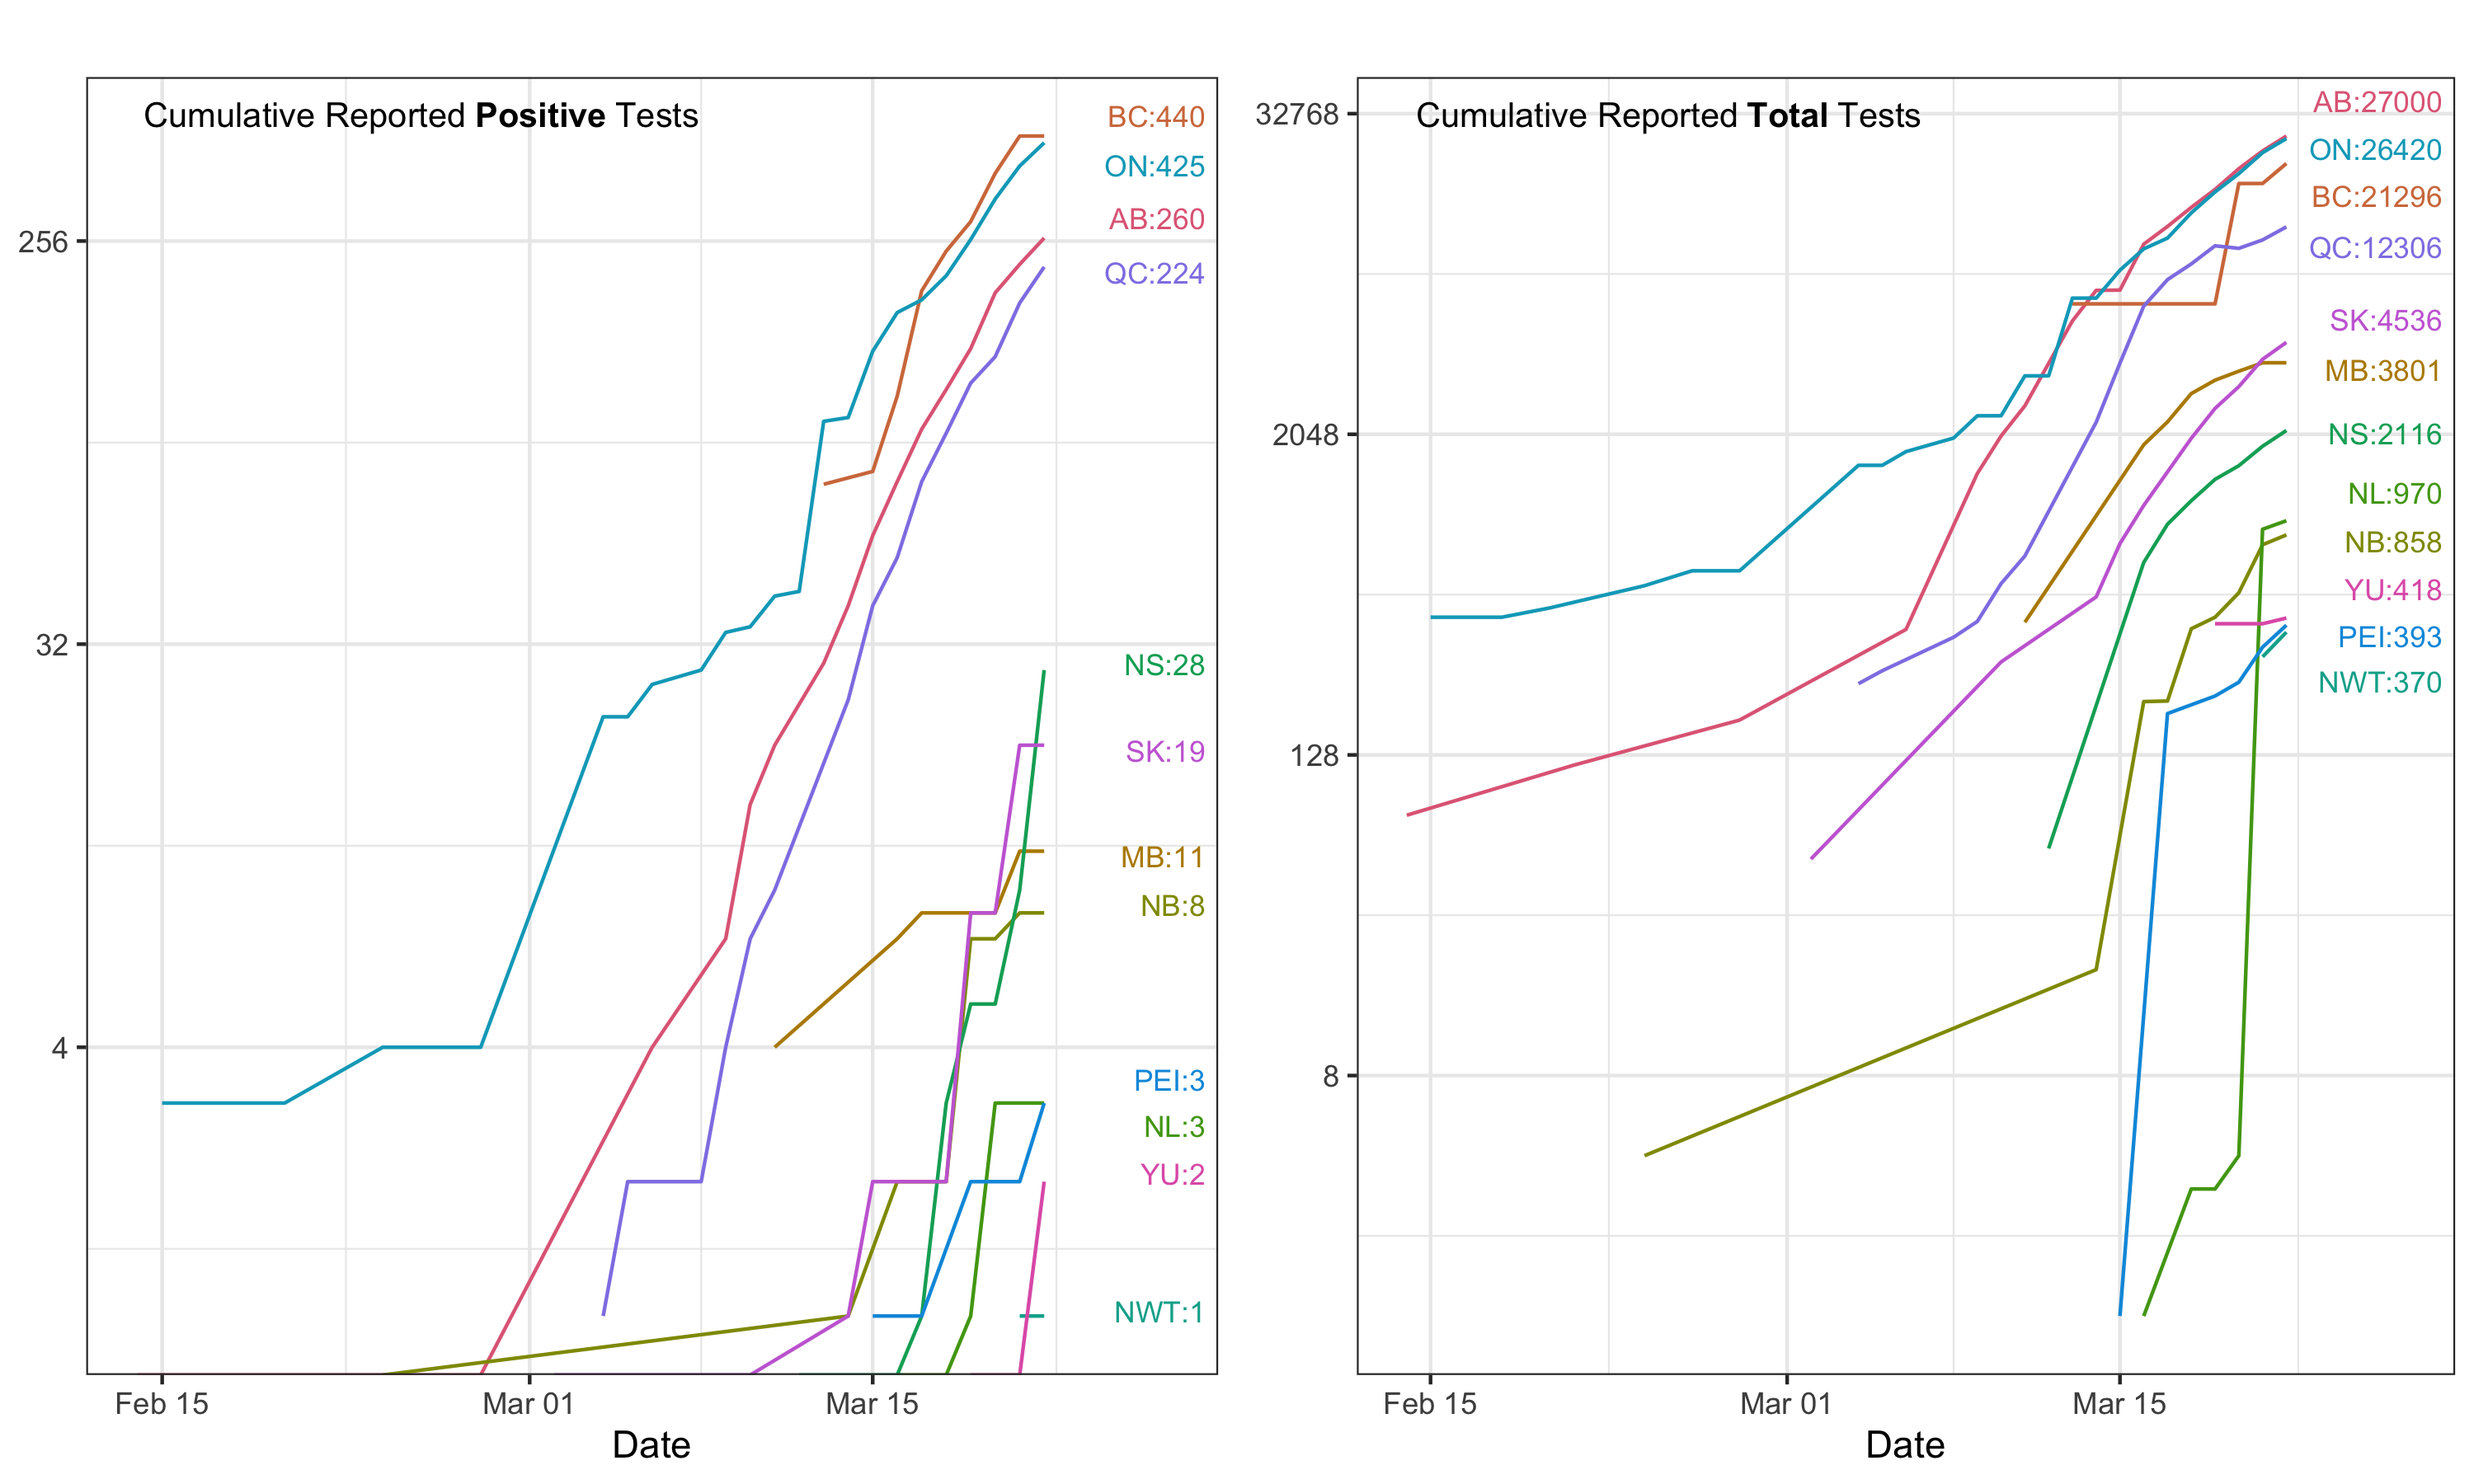
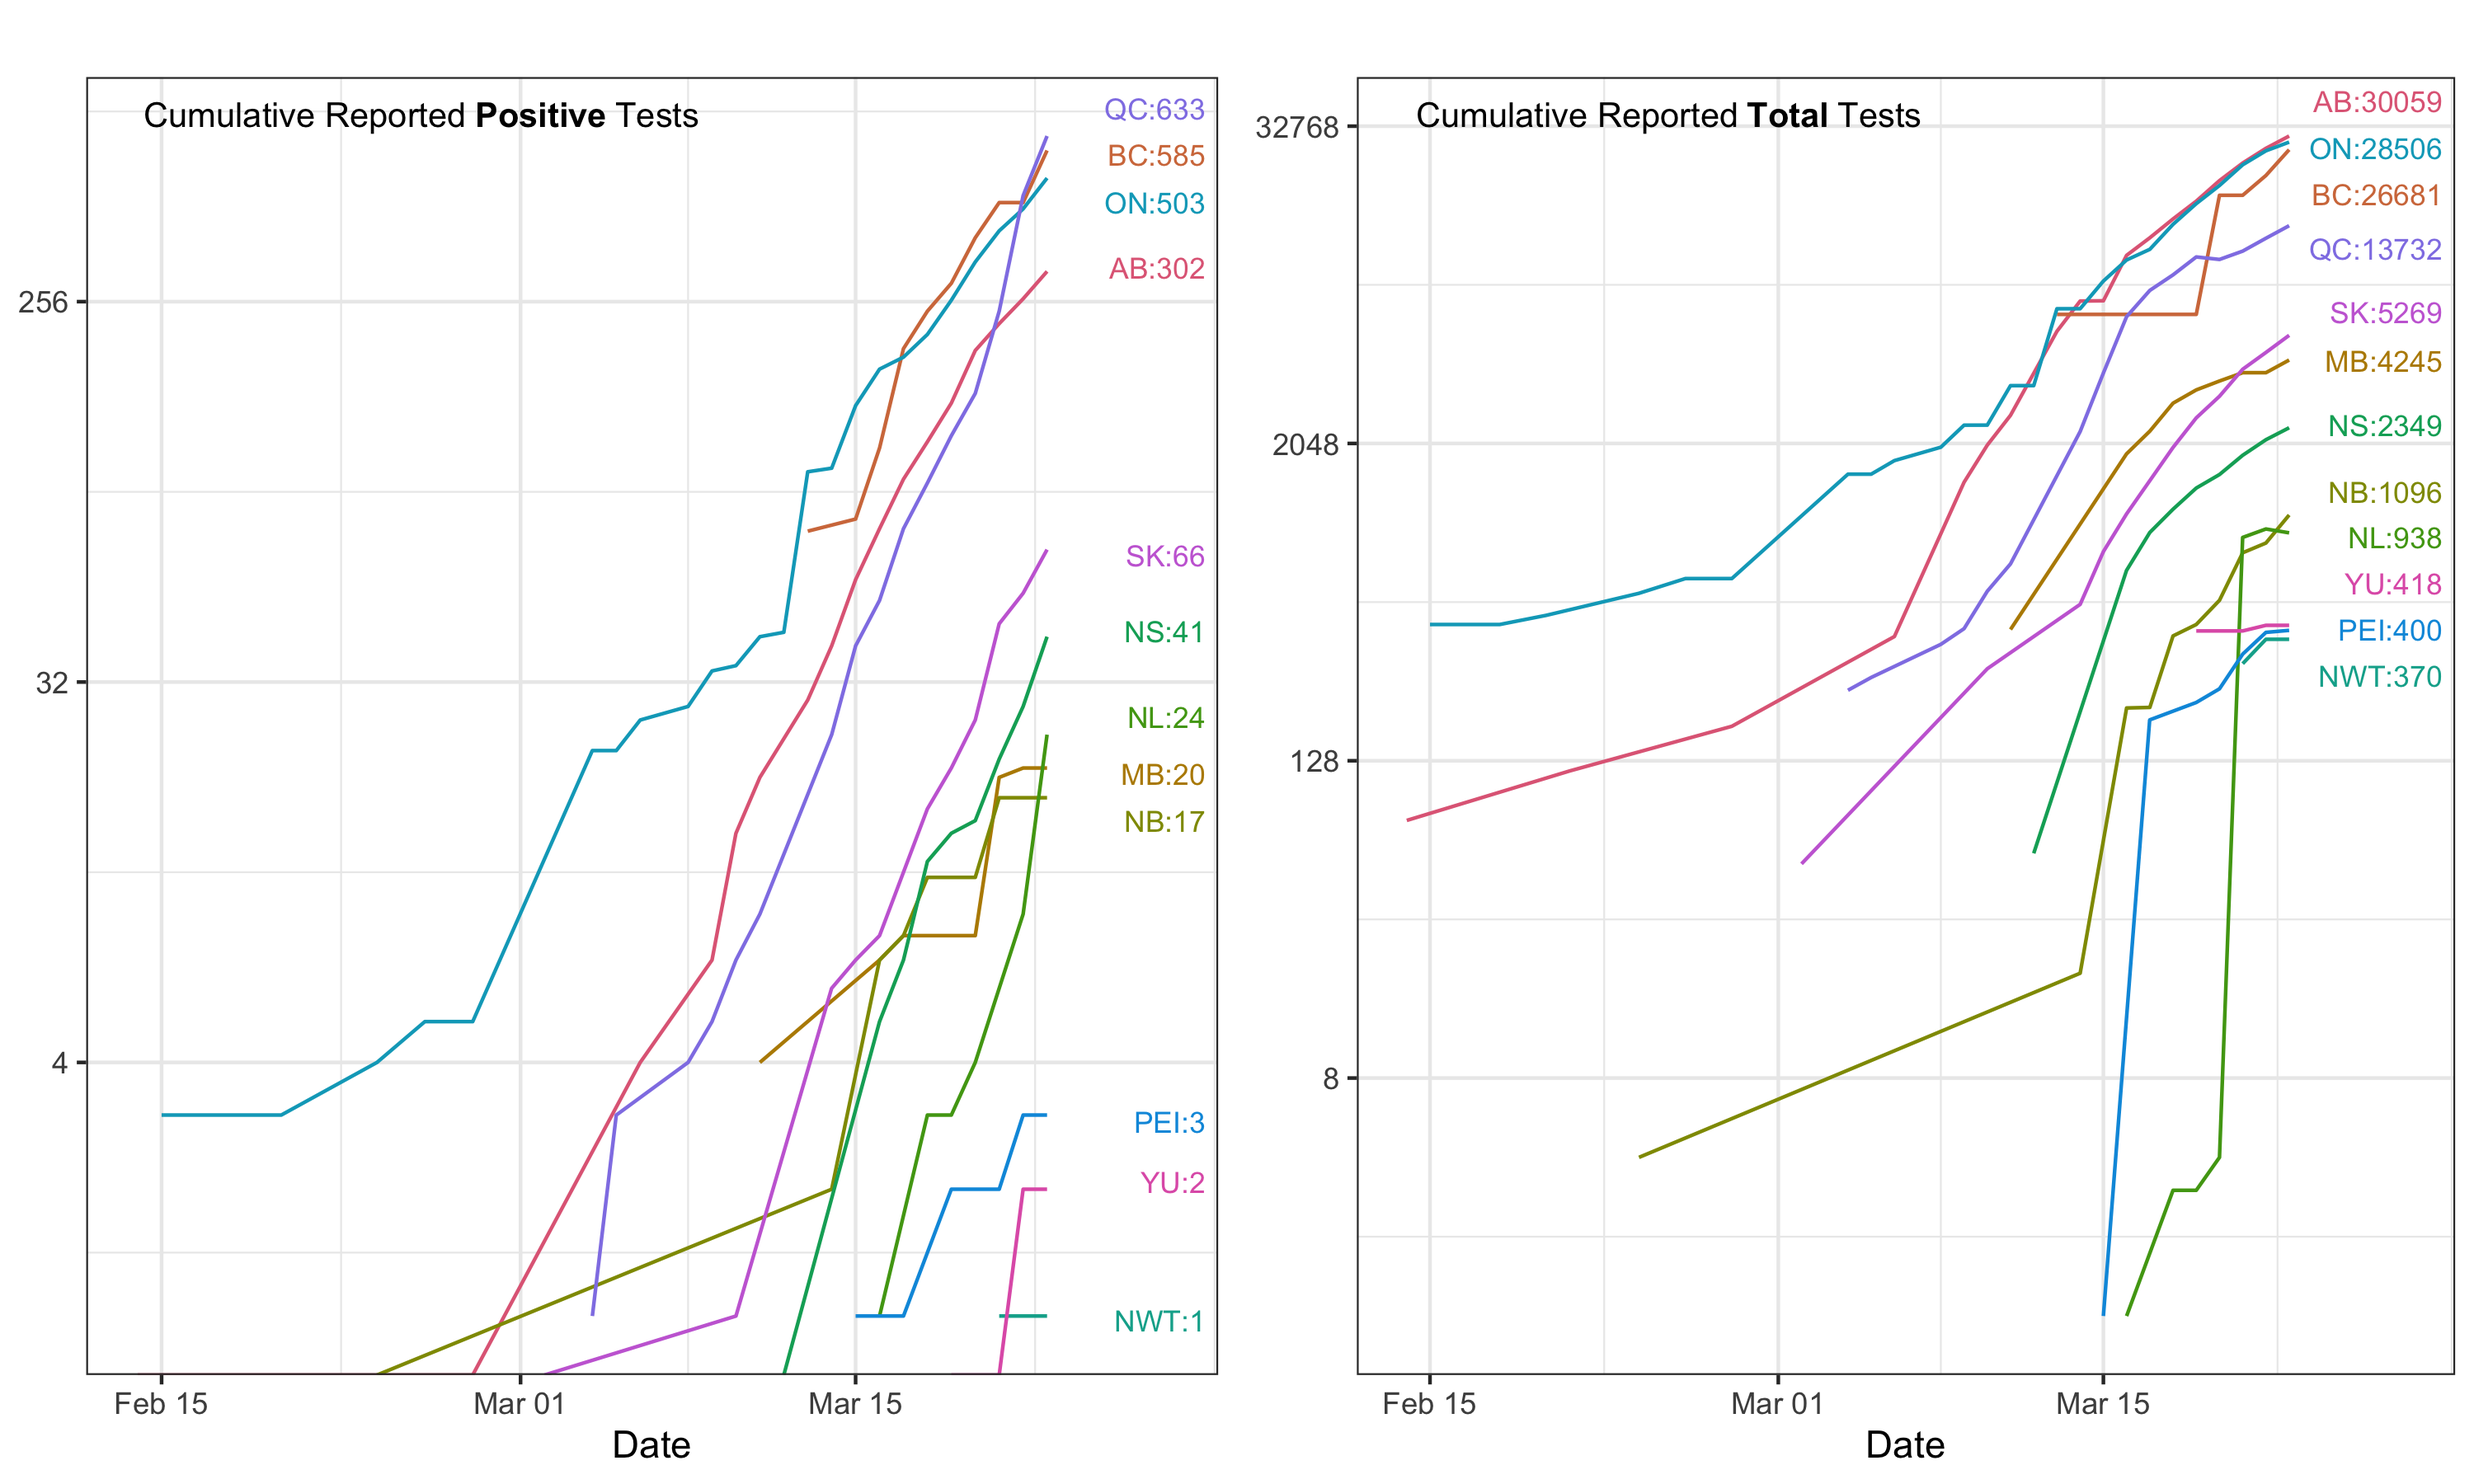
March 23rd update

diff --git a/README.md b/README.md
@@ -1,6 +1,6 @@
 This is a public open-resource page for the COVID19 testing data for Canada. 
 
-_last updated: March 23th 00:48 Toronto time_
+_last updated: March 23rd 10:36 Toronto time_
 
 ## COVID19 Testing Data
 
@@ -26,9 +26,19 @@ When possible we use summary reports from [the federal outbreak website](https:/
 
 _These plots are generated using the curated data_
 
-<img src="plot.png" width="1000" height="500">
+<img src="plot.png" width="1000" height="600">
 
-## Contacts 
+## Other Canadian COVID19 Resources
+
+### COVID-19 Canada Open Data Working Group
+
+Epidemiological Data from the COVID-19 Outbreak in Canada
+
+- [Github repo](https://github.com/ishaberry/Covid19Canada)
+- [Public COVID-19 Canada Line list](https://docs.google.com/spreadsheets/d/1D6okqtBS3S2NRC7GFVHzaZ67DuTw7LX49-fqSLwJyeo/edit?usp=sharing)
+- [shiny app](https://art-bd.shinyapps.io/covid19canada/)
+
+## Contacts
 
 - Maintainer: Michael Li 
 - Email: wzmichael.li@gmail.com
